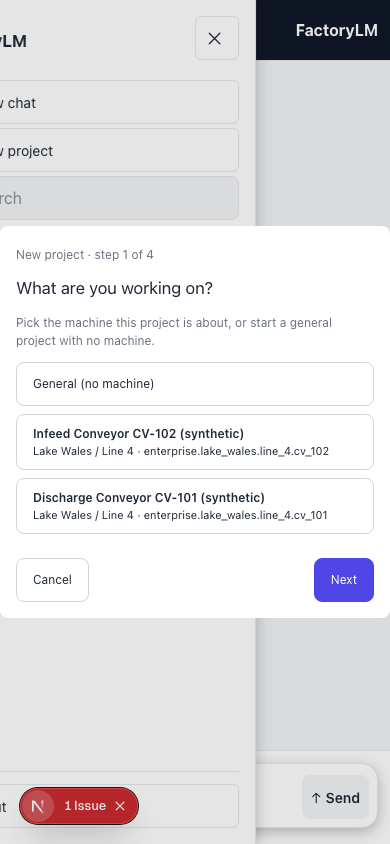
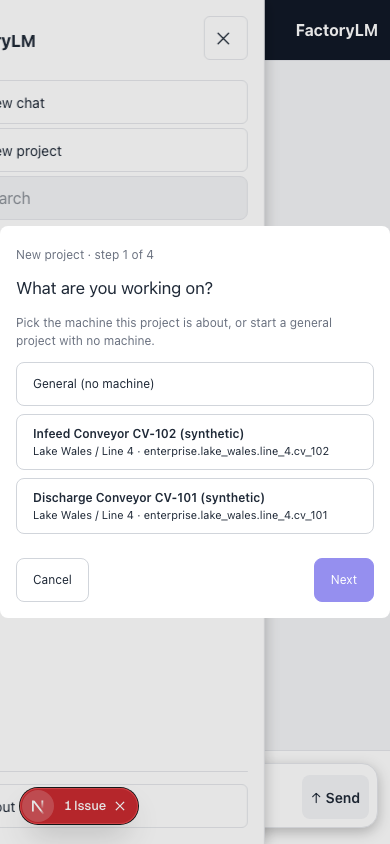
fix(hub): New Project waits for linked manuals and publishes saves after close (#5295 r1)
Codex r1 F1: Next and Create wait until the chosen machine's linked
manuals have loaded (step 1 says so), so a late answer can no longer
overwrite the technician's document choices or arrive after the commit.
An answer for a machine the technician moved away from is dropped.

Codex r1 F2: a project that was saved is published to the host's list
even when the sheet was closed mid-commit (the shell's Back closes open
dialogs), exactly once; refused or pre-write failures do not refresh.

Disabled buttons now look disabled. Proof screenshots refreshed.

Claude-Session: https://claude.ai/code/session_01HZ4euNRGtYQWT6948SCUJS

diff --git a/mira-hub/src/factorylm-ui/new-project-setup-logic.test.ts b/mira-hub/src/factorylm-ui/new-project-setup-logic.test.ts
@@ -21,7 +21,7 @@ type Call = { method: string; path: string; body?: unknown; form?: boolean };
 type Reply = { status: number; body: Record<string, unknown> };
 
 /** Routes by "METHOD path" prefix. Unknown routes fail the test loudly. */
-function harness(routes: Record<string, Reply | ((call: Call) => Reply)>) {
+function harness(routes: Record<string, Reply | ((call: Call) => Reply | Promise<Reply>)>) {
   const calls: Call[] = [];
   const fetchFn = vi.fn(async (input: RequestInfo | URL, init?: RequestInit) => {
     const path = String(input).replace(/^\/?/, "/").replace(/^\/\//, "/");
@@ -36,7 +36,7 @@ function harness(routes: Record<string, Reply | ((call: Call) => Reply)>) {
     });
     if (!key) throw new Error(`unexpected request ${method} ${path}`);
     const route = routes[key]!;
-    const reply = typeof route === "function" ? route(call) : route;
+    const reply = typeof route === "function" ? await route(call) : route;
     return { status: reply.status, ok: reply.status >= 200 && reply.status < 300, json: async () => reply.body } as Response;
   });
   return { calls, fetch: fetchFn as unknown as typeof fetch };
@@ -349,6 +349,102 @@ describe("controller", () => {
     expect(c.getState().error).toBe("That asset hasn't been approved yet.");
     expect(c.getState().done).toBe(false);
     expect(c.openProjectId()).toBeNull();
+  });
+});
+
+describe("Codex #5295 r1: slow manuals and closing mid-commit", () => {
+  const treeReply = { status: 200, body: { nodes: [{ id: "node-cv101", name: "Discharge Conveyor", kind: "asset", unsPath: "enterprise.a.cv101", children: [] }] } };
+  const wsReply = { status: 200, body: { files: [{ id: "f1", filename: "manual.pdf", uploadId: "up-1" }, { id: "f3", filename: "wiring.pdf", uploadId: "up-3" }] } };
+  const linkedReply = { status: 200, body: { files: [{ id: "up-1", filename: "manual.pdf", source: "upload", indexed: true }] } };
+  const flush = async () => { for (let i = 0; i < 20; i++) await Promise.resolve(); };
+  const later = () => {
+    let release: (r: Reply) => void = () => {};
+    const promise = new Promise<Reply>((r) => { release = r; });
+    return { route: () => promise, release: (r: Reply) => release(r) };
+  };
+  const createdRoutes = {
+    "POST /api/assets/": { status: 201, body: { ok: true, created: true, notebook: { id: "nb-m", nodeId: "n", displayName: "CV" } } },
+    "PUT /api/equipment-notebooks/nb-m/asset/": { status: 200, body: { ok: true } },
+    "GET /api/equipment-notebooks/nb-m/": { status: 200, body: { notebook: { asset: { entityId: "e", confirmedAt: "2026-11-08T10:00:00Z" } }, sources: [] } },
+    "POST /api/equipment-notebooks/nb-m/sources/": { status: 201, body: { ok: true } },
+  };
+
+  it("Next and Create wait for the machine's manuals; once they load, Next works and the defaults apply", async () => {
+    const linked = later();
+    const h = harness({ "GET /api/namespace/tree/": treeReply, "GET /api/files/": wsReply, "GET /api/namespace/node/": linked.route, ...createdRoutes });
+    const c = createNewProjectSetup({ ...deps(h.fetch), getNotebooks: () => [] });
+    await c.start();
+    const choosing = c.choose({ kind: "machine", machine });
+    await flush();
+    expect(c.getState().linked).toBeNull();
+    await c.next();
+    expect(c.getState().step).toBe(1);
+    await c.commit();
+    expect(nonGet(h.calls)).toEqual([]);
+    linked.release(linkedReply);
+    await choosing;
+    expect(c.getState().chosenDocIds).toEqual(["up-1"]);
+    await c.next();
+    expect(c.getState().step).toBe(2);
+  });
+
+  it("a manuals answer that arrives after the technician moved on changes nothing", async () => {
+    const linked = later();
+    const h = harness({ "GET /api/namespace/tree/": treeReply, "GET /api/files/": wsReply, "GET /api/namespace/node/": linked.route });
+    const c = createNewProjectSetup({ ...deps(h.fetch), getNotebooks: () => [] });
+    await c.start();
+    const choosing = c.choose({ kind: "machine", machine });
+    await flush();
+    await c.choose({ kind: "general" });
+    c.setName("Shift line");
+    await c.next();
+    c.toggleDoc("up-3");
+    linked.release(linkedReply);
+    await choosing;
+    expect(c.getState().step).toBe(2);
+    expect(c.getState().selected).toEqual({ kind: "general" });
+    expect(c.getState().chosenDocIds).toEqual(["up-3"]);
+  });
+
+  it("closing the sheet mid-commit still tells the host about the saved project, exactly once", async () => {
+    const create = later();
+    const onWritten = vi.fn();
+    const h = harness({ "GET /api/namespace/tree/": treeReply, "GET /api/files/": wsReply, "GET /api/namespace/node/": linkedReply, ...createdRoutes, "POST /api/assets/": create.route });
+    const c = createNewProjectSetup({ ...deps(h.fetch), onWritten, getNotebooks: () => [] });
+    await c.start();
+    await c.choose({ kind: "machine", machine });
+    await c.next();
+    const committing = c.commit();
+    await flush();
+    c.dispose();
+    create.release(createdRoutes["POST /api/assets/"]);
+    await committing;
+    expect(nonGet(h.calls).map((x) => `${x.method} ${x.path}`)).toContain("PUT /api/equipment-notebooks/nb-m/asset/");
+    expect(onWritten).toHaveBeenCalledTimes(1);
+  });
+
+  it("a project created but returned without its node id still refreshes the host", async () => {
+    const onWritten = vi.fn();
+    const h = harness({ "GET /api/namespace/tree/": treeReply, "GET /api/files/": wsReply, "GET /api/namespace/node/": linkedReply, "POST /api/assets/": { status: 201, body: { ok: true, created: true, notebook: { id: "nb-m" } } } });
+    const c = createNewProjectSetup({ ...deps(h.fetch), onWritten, getNotebooks: () => [] });
+    await c.start();
+    await c.choose({ kind: "machine", machine });
+    await c.next();
+    await c.commit();
+    expect(c.getState().error).toMatch(/created but could not be opened/);
+    expect(onWritten).toHaveBeenCalledTimes(1);
+  });
+
+  it("control: a refused or failed-before-write commit does not refresh the host", async () => {
+    const onWritten = vi.fn();
+    const h = harness({ "GET /api/namespace/tree/": treeReply, "GET /api/files/": wsReply, "GET /api/namespace/node/": linkedReply, "POST /api/assets/": { status: 422, body: { error: "nope", code: "asset_not_verified" } } });
+    const c = createNewProjectSetup({ ...deps(h.fetch), onWritten, getNotebooks: () => [] });
+    await c.start();
+    await c.choose({ kind: "machine", machine });
+    await c.next();
+    await c.commit();
+    expect(c.getState().error).toBe("nope");
+    expect(onWritten).not.toHaveBeenCalled();
   });
 });
 

diff --git a/mira-hub/src/factorylm-ui/NewProjectSetup.tsx b/mira-hub/src/factorylm-ui/NewProjectSetup.tsx
@@ -42,6 +42,8 @@ export type SetupActions = {
 const field: CSSProperties = { display: "block", width: "100%", minHeight: 44, fontSize: 16, padding: "8px 10px", border: "1px solid var(--fl-line-strong)", borderRadius: "var(--fl-radius)", background: "var(--fl-surface)", color: "var(--fl-ink)", boxSizing: "border-box" };
 const button: CSSProperties = { minHeight: 44, minWidth: 44, padding: "0 16px", borderRadius: "var(--fl-radius)", border: "1px solid var(--fl-line-strong)", background: "var(--fl-surface)", color: "var(--fl-ink)", fontSize: "var(--fl-fs-sm)", cursor: "pointer" };
 const primary: CSSProperties = { ...button, background: "var(--fl-accent)", color: "var(--fl-surface)", border: "1px solid var(--fl-accent)" };
+/** A disabled button looks disabled (same dimming as a disabled checkbox row). */
+const unless = (style: CSSProperties, off: boolean): CSSProperties => (off ? { ...style, opacity: 0.6, cursor: "not-allowed" } : style);
 const row: CSSProperties = { display: "flex", alignItems: "center", gap: 12, minHeight: 44, padding: "8px 0", borderBottom: "1px solid var(--fl-line)" };
 const muted: CSSProperties = { color: "var(--fl-muted)", fontSize: "var(--fl-fs-sm)", margin: "4px 0" };
 const alertBox: CSSProperties = { background: "var(--fl-warn-bg)", border: "1px solid var(--fl-line)", borderRadius: "var(--fl-radius)", padding: "10px 12px", margin: "10px 0", fontSize: "var(--fl-fs-sm)" };
@@ -92,6 +94,7 @@ function Step1({ state, actions }: { state: SetupState; actions: SetupActions })
           <button type="button" style={primary} onClick={actions.openProject}>Open that project</button>
         </p>
       ) : null}
+      {state.selected?.kind === "machine" && !state.duplicate && state.linked === null ? <p role="status" style={muted}>Loading this machine&apos;s manuals…</p> : null}
       {state.selected ? (
         <label style={{ display: "block", marginTop: 14 }}>
           <span style={muted}>{generalSelected ? "Project name (required)" : "Project name"}</span>
@@ -179,7 +182,7 @@ function Step4({ state }: { state: SetupState }) {
 export function NewProjectSetupView({ state, actions }: { state: SetupState; actions: SetupActions }) {
   const busy = state.committing;
   const canNext = state.step === 1
-    ? !!state.selected && !state.duplicate && (state.selected.kind === "machine" || state.name.trim() !== "")
+    ? !!state.selected && !state.duplicate && (state.selected.kind === "machine" ? state.linked !== null : state.name.trim() !== "")
     : state.step === 2;
   let body: ReactNode;
   if (state.step === 1) body = <Step1 state={state} actions={actions} />;
@@ -194,12 +197,12 @@ export function NewProjectSetupView({ state, actions }: { state: SetupState; act
       {body}
       <div style={{ display: "flex", gap: 8, justifyContent: "space-between", marginTop: 16, flexWrap: "wrap" }}>
         <div style={{ display: "flex", gap: 8 }}>
-          {state.step > 1 && state.step < 4 ? <button type="button" style={button} disabled={busy || state.done} onClick={actions.back}>Back</button> : null}
-          {state.step < 4 && !state.done ? <button type="button" style={button} disabled={busy} onClick={actions.cancel}>Cancel</button> : null}
+          {state.step > 1 && state.step < 4 ? <button type="button" style={unless(button, busy || state.done)} disabled={busy || state.done} onClick={actions.back}>Back</button> : null}
+          {state.step < 4 && !state.done ? <button type="button" style={unless(button, busy)} disabled={busy} onClick={actions.cancel}>Cancel</button> : null}
         </div>
-        {state.step === 1 ? <button type="button" style={primary} disabled={!canNext} onClick={actions.next}>Next</button> : null}
+        {state.step === 1 ? <button type="button" style={unless(primary, !canNext)} disabled={!canNext} onClick={actions.next}>Next</button> : null}
         {state.step === 2 ? <button type="button" style={primary} onClick={actions.next}>Review</button> : null}
-        {state.step === 3 && !state.done ? <button type="button" style={primary} disabled={busy} onClick={actions.commit}>{busy ? "Creating…" : "Create project"}</button> : null}
+        {state.step === 3 && !state.done ? <button type="button" style={unless(primary, busy)} disabled={busy} onClick={actions.commit}>{busy ? "Creating…" : "Create project"}</button> : null}
         {state.step === 3 && state.done ? <button type="button" style={primary} onClick={actions.next}>Continue</button> : null}
         {state.step === 4 ? <button type="button" style={primary} onClick={actions.openProject}>Open project</button> : null}
       </div>

diff --git a/mira-hub/src/factorylm-ui/new-project-setup-logic.ts b/mira-hub/src/factorylm-ui/new-project-setup-logic.ts
@@ -192,7 +192,7 @@ export function messageOf(res: HttpResult, fallback: string): string {
 
 export type CommitOutcome =
   | { kind: "refused"; notebookId: string; name: string; message: string }
-  | { kind: "failed"; message: string }
+  | { kind: "failed"; message: string; wrote?: boolean }
   | {
       kind: "created";
       notebookId: string;
@@ -253,7 +253,7 @@ export async function runCommit(input: CommitInput, deps: SetupDeps): Promise<Co
     if (!res.ok) return { kind: "failed", message: messageOf(res, "Could not open a project for that machine.") };
     const nb = res.body.notebook as { id?: unknown; nodeId?: unknown; displayName?: unknown } | undefined;
     if (typeof nb?.id !== "string" || typeof nb.nodeId !== "string") {
-      return { kind: "failed", message: "The project was created but could not be opened. Refresh projects before trying again." };
+      return { kind: "failed", wrote: true, message: "The project was created but could not be opened. Refresh projects before trying again." };
     }
     const existingName = typeof nb.displayName === "string" && nb.displayName ? nb.displayName : machine.name;
     if (res.body.created === false) {
@@ -523,6 +523,8 @@ export function createNewProjectSetup(deps: ControllerDeps): SetupController {
       if (dup) return;
       await ensureWorkspace();
       const res = await call(deps, "GET", `/api/namespace/node/${encodeURIComponent(machine.id)}/files/`);
+      // Codex #5295 r1 F1: Next and Create wait for this answer, so it lands on
+      // step 1 with this machine still chosen, or not at all.
       if (disposed || state.selected !== selection) return;
       const linked = res.ok ? linkedDocsFrom(res.body, state.workspace ?? []) : [];
       set({
@@ -566,6 +568,7 @@ export function createNewProjectSetup(deps: ControllerDeps): SetupController {
       if (state.committing) return;
       if (state.step === 1) {
         if (!state.selected || state.duplicate) return;
+        if (state.selected.kind === "machine" && state.linked === null) return; // manuals still loading
         if (state.selected.kind === "general" && state.name.trim() === "") {
           set({ error: "Name this project first." });
           return;
@@ -585,6 +588,7 @@ export function createNewProjectSetup(deps: ControllerDeps): SetupController {
 
     async commit() {
       if (state.committing || state.done || !state.selected || state.duplicate) return;
+      if (state.selected.kind === "machine" && state.linked === null) return;
       const selected = state.selected;
       const docs: CommitDoc[] = [];
       const seen = new Set<string>();
@@ -596,6 +600,9 @@ export function createNewProjectSetup(deps: ControllerDeps): SetupController {
       }
       set({ committing: true, error: null, refusal: null });
       const outcome = await runCommit({ selected, name: state.name, docs, pdfs: state.pdfs }, deps);
+      // Codex #5295 r1 F2: a saved project reaches the host's list even when the
+      // sheet was closed mid-commit (the shell's Back closes open dialogs).
+      if (outcome.kind === "created" || (outcome.kind === "failed" && outcome.wrote)) deps.onWritten?.();
       if (disposed) return;
       if (outcome.kind === "refused") {
         set({ committing: false, refusal: { notebookId: outcome.notebookId, message: outcome.message } });
@@ -605,7 +612,6 @@ export function createNewProjectSetup(deps: ControllerDeps): SetupController {
         set({ committing: false, error: outcome.message });
         return;
       }
-      deps.onWritten?.();
       set({ notebookId: outcome.notebookId, confirmed: outcome.confirmed, notes: outcome.notes });
       const watched = outcome.docs.flatMap((d) => (d.docId ? [d.docId] : []));
       // The writes are finished. After the first readiness read the sheet unlocks

diff --git a/mira-hub/src/factorylm-ui/NewProjectSetup.test.tsx b/mira-hub/src/factorylm-ui/NewProjectSetup.test.tsx
@@ -52,9 +52,20 @@ describe("duplicate machine refusal", () => {
     expect(html).toMatch(/<button[^>]*disabled=""[^>]*>Next<\/button>/);
   });
   it("control: no duplicate means no refusal and Next is enabled", () => {
-    const html = render({ step: 1, selected: { kind: "machine", machine }, name: machine.name, duplicate: null });
+    const html = render({ step: 1, selected: { kind: "machine", machine }, name: machine.name, duplicate: null, linked: [] });
     expect(html).not.toContain("already has a project");
     expect(html).not.toMatch(/<button[^>]*disabled=""[^>]*>Next<\/button>/);
+  });
+  it("Codex #5295 r1: while the machine's manuals load, Next is disabled and says why", () => {
+    const html = render({ step: 1, selected: { kind: "machine", machine }, name: machine.name, duplicate: null, linked: null });
+    expect(html).toContain("Loading this machine&#x27;s manuals");
+    expect(html).toMatch(/<button[^>]*disabled=""[^>]*>Next<\/button>/);
+  });
+  it("a disabled Next looks disabled; control: an enabled Next does not", () => {
+    const off = render({ step: 1, selected: null });
+    const on = render({ step: 1, selected: { kind: "machine", machine }, name: machine.name, duplicate: null, linked: [] });
+    expect(off).toMatch(/<button[^>]*opacity:0\.6[^>]*disabled=""[^>]*>Next<\/button>/);
+    expect(on).not.toMatch(/<button[^>]*opacity[^>]*>Next<\/button>/);
   });
   it("a refusal at commit (created:false) offers Open existing", () => {
     const html = render({ step: 3, selected: { kind: "machine", machine }, refusal: { notebookId: "nb-old", message: "This machine already has a project: Old" } });
